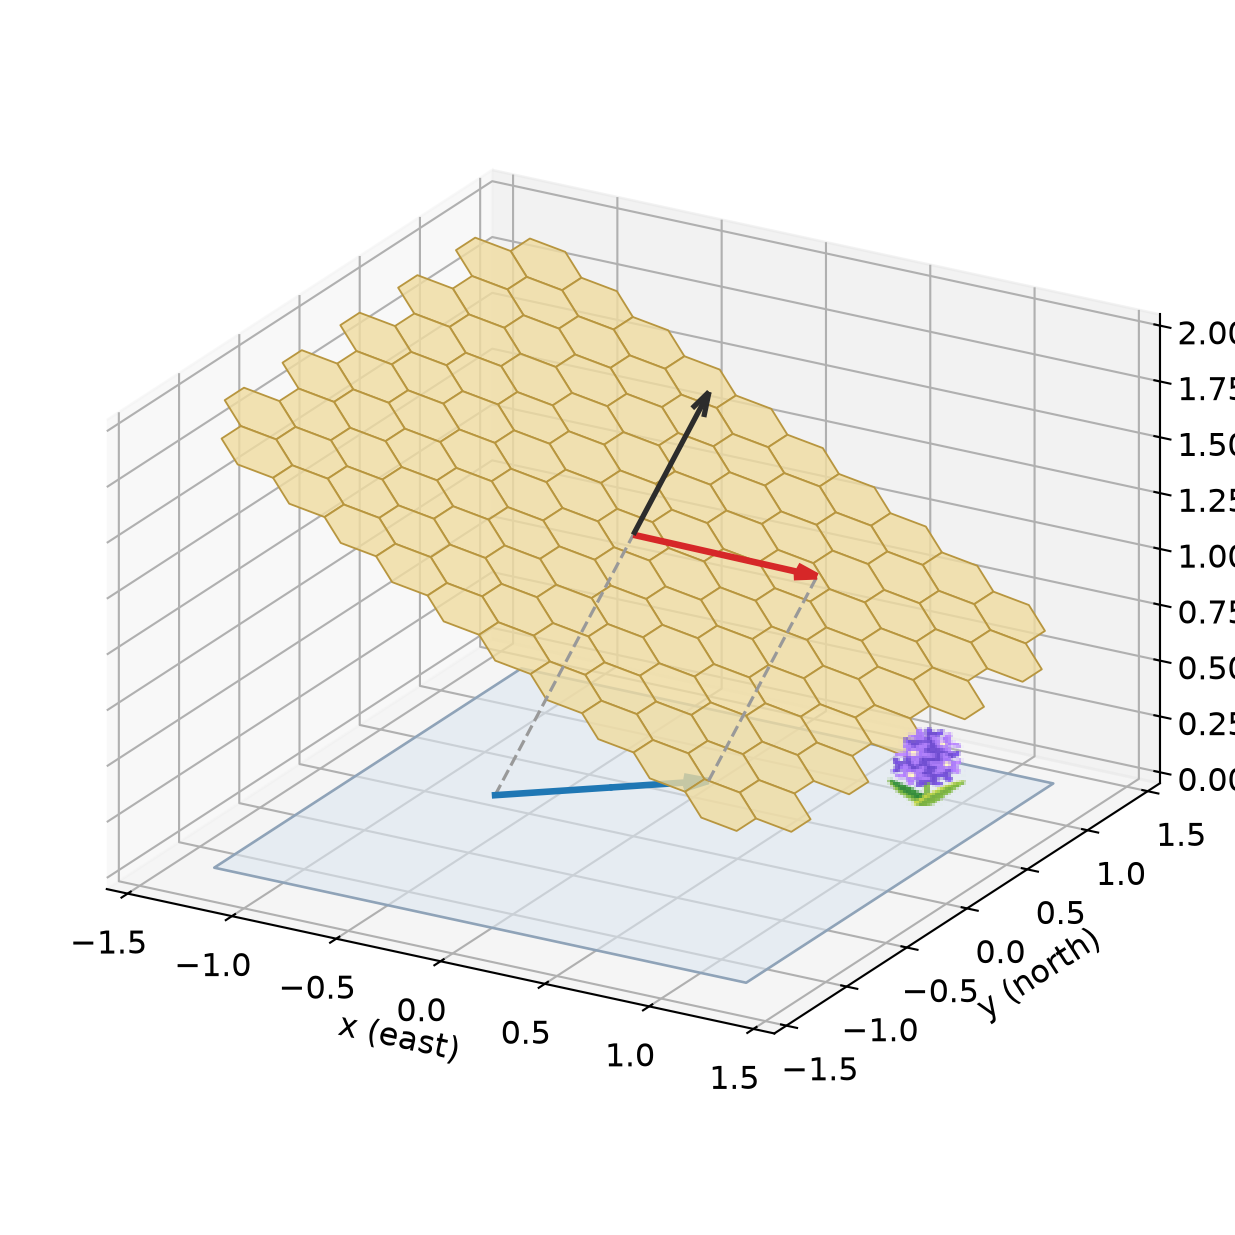
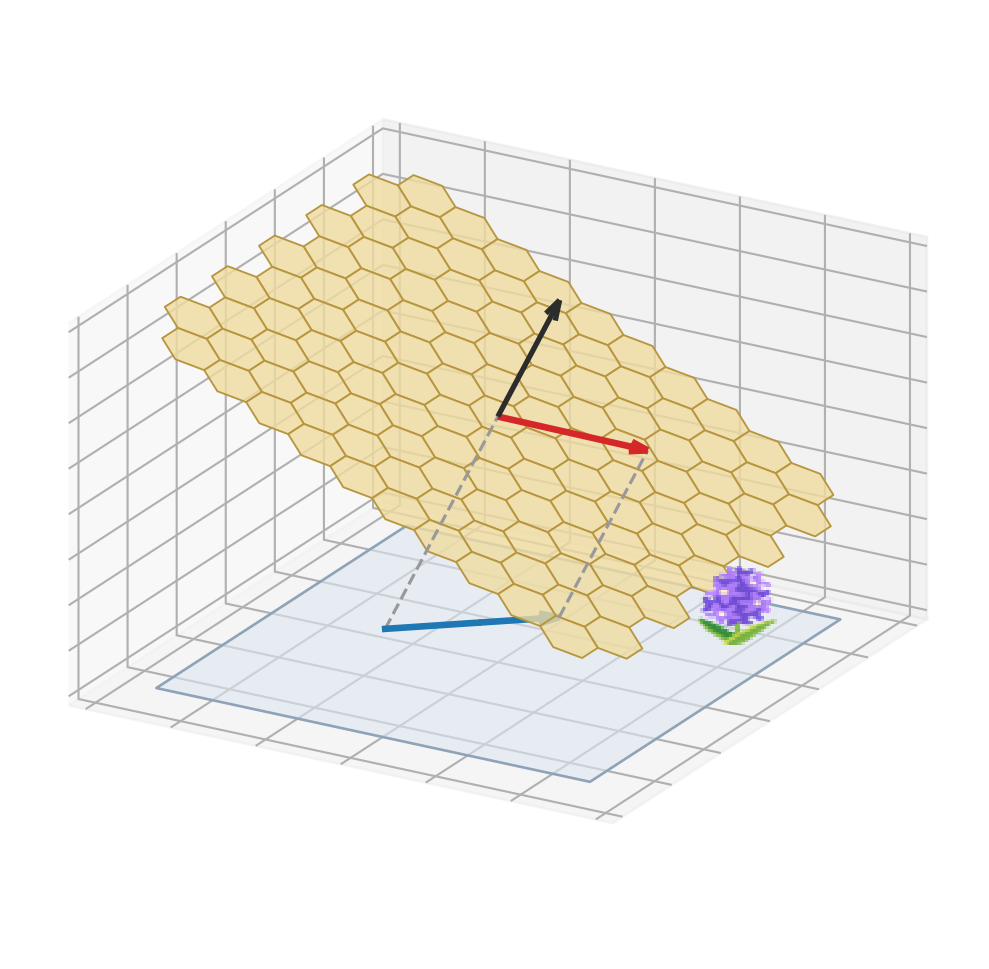
Declutter axes and trim figure margins
Remove axis lines, ticks, and labels while keeping the pane grid for
spatial reference. Replace tight_layout() (which warned and failed to
tighten once the axis decorations were gone) with bbox_inches="tight"
on save, which crops to the actual rendered content.

Changed region(s): [[0.0607, 0.1238, 1.0, 0.8978], [0.5157, 0.7121, 0.5763, 0.743], [0.91, 0.6811, 0.9403, 0.7121]]

diff --git a/experiments/illustrate_direct_projection.py b/experiments/illustrate_direct_projection.py
@@ -338,9 +338,16 @@ def main() -> None:
     ax.set_box_aspect((xlim[1] - xlim[0], ylim[1] - ylim[0], zlim[1] - zlim[0]))
     ax.set_proj_type("ortho")  # perspective projection doesn't preserve parallel lines
     ax.view_init(elev=ELEV, azim=AZIM)
-    ax.set_xlabel("x (east)")
-    ax.set_ylabel("y (north)")
-    ax.set_zlabel("z (up)")
+
+    # Declutter: no axis lines, ticks, or labels, but keep the pane grid for
+    # spatial reference.
+    for axis in (ax.xaxis, ax.yaxis, ax.zaxis):
+        axis.set_ticklabels([])
+        axis.set_label_text("")
+        axis.line.set_visible(False)
+        axis._axinfo["tick"]["inward_factor"] = 0.0
+        axis._axinfo["tick"]["outward_factor"] = 0.0
+    ax.tick_params(axis="both", which="both", length=0)
 
     # Food-site marker, along the food vector's direction, near the edge of
     # the ground square.
@@ -348,8 +355,7 @@ def main() -> None:
     flower_point = edge_point(food_base, unit_dir, SQUARE_SIZE, FLOWER_EDGE_MARGIN)
     place_flower(ax, flower_point)
 
-    fig.tight_layout()
-    fig.savefig(args.output, dpi=190)
+    fig.savefig(args.output, dpi=190, bbox_inches="tight", pad_inches=0.05)
     print(f"saved {args.output}")
 
 
